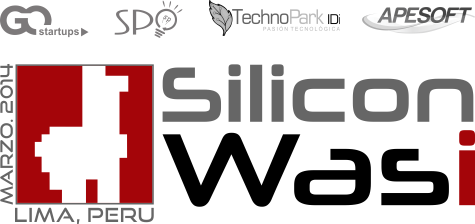
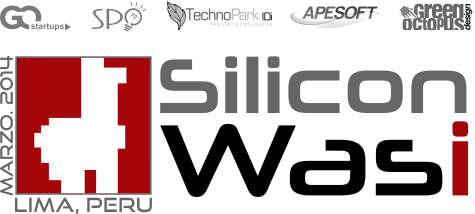
Added Serpar and Design Octopus - Added Microsoft and GDGLima brands

Changed region(s): [[0.0, 0.2523, 1.0, 1.0], [0.0, 0.0, 1.0, 0.1682], [0.0884, 0.757, 0.1474, 0.8692]]

diff --git a/index.html b/index.html
@@ -93,7 +93,7 @@
           <!-- argentina -->
           <div class="col-lg-2 col-md-2 col-sm-4 ">
             <div class="col-md-6 col-xs-6 ">
-              <a href="#"><img class="img-responsive img-home-portfolio" src="images/finalist/argentina/argentina.png"></a>
+              <img class="img-responsive img-home-portfolio" src="images/finalist/argentina/argentina.png">
             </div>
             <div class="col-md-6 col-xs-6 ">
               <a href="http://wolox.com.ar" target="_blank"><img class="img-responsive img-home-portfolio" src="images/finalist/argentina/1a.png"></a>
@@ -115,7 +115,7 @@
           <!-- brazil -->
           <div class="col-lg-2 col-md-2 col-sm-4 ">
             <div class="col-md-6 col-xs-6 ">
-              <a href="#"><img class="img-responsive img-home-portfolio" src="images/finalist/brazil/brazil.png"></a>
+              <img class="img-responsive img-home-portfolio" src="images/finalist/brazil/brazil.png">
             </div>
             <div class="col-md-6 col-xs-6 ">
               <a href="http://heapup.com.br" target="_blank"><img class="img-responsive img-home-portfolio" src="images/finalist/brazil/1a.png"></a>
@@ -137,7 +137,7 @@
           <!-- colombia -->
           <div class="col-lg-2 col-md-2 col-sm-4 ">
             <div class="col-md-6 col-xs-6 ">
-              <a href="#"><img class="img-responsive img-home-portfolio" src="images/finalist/colombia/colombia.png"></a>
+              <img class="img-responsive img-home-portfolio" src="images/finalist/colombia/colombia.png">
             </div>
             <div class="col-md-6 col-xs-6 ">
               <a href="http://mavish.com" target="_blank"><img class="img-responsive img-home-portfolio" src="images/finalist/colombia/1a.png"></a>
@@ -159,7 +159,7 @@
           <!-- mexico -->
           <div class="col-lg-2 col-md-2 col-sm-4 ">
             <div class="col-md-6 col-xs-6 ">
-              <a href="#"><img class="img-responsive img-home-portfolio" src="images/finalist/mexico/mexico.png"></a>
+              <img class="img-responsive img-home-portfolio" src="images/finalist/mexico/mexico.png">
             </div>
             <div class="col-md-6 col-xs-6 ">
               <a href="http://retweeti.com" target="_blank"><img class="img-responsive img-home-portfolio" src="images/finalist/mexico/1a.png"></a>
@@ -181,7 +181,7 @@
           <!-- PERU -->
           <div class="col-lg-2 col-md-2 col-sm-4 ">
             <div class="col-md-6 col-xs-6 ">
-              <a href="#"><img class="img-responsive img-home-portfolio" src="images/finalist/peru/peru.png"></a>
+              <img class="img-responsive img-home-portfolio" src="images/finalist/peru/peru.png">
             </div>
             <div class="col-md-6 col-xs-6 ">
               <a href="http://pasaeldato.com.pe" target="_blank"><img class="img-responsive img-home-portfolio" src="images/finalist/peru/1a.png"></a>
@@ -226,7 +226,7 @@
           </div>
           <div class="col-lg-6 col-md-6 col-sm-6 ">
             <!--<img class="img-responsive" src="http://placehold.it/700x450/ffffff/cccccc">-->
-            <iframe width="100%" height="350px" src="//www.youtube.com/embed/QWKqawgJOPg" frameborder="0" allowfullscreen></iframe>
+            <iframe width="100%" height="350px" src="http://www.youtube.com/embed/QWKqawgJOPg" frameborder="0" allowfullscreen></iframe>
           </div>
         </div><!-- /.row -->
 
@@ -248,23 +248,25 @@
             <span>Startup school</span>
             <br></br>
             <p>
-              Cuando llegues a Silicon Wasi no sólo vas a compartir con 5 culturas tecnológicas diferentes, vas a tener la oportunidad de aprender de ellas, ¿te animas?
-              Es muy sencillo, el Startup School , está diseñado para que tú y tu equipo, puedan compartir cómo fue el inicio de su startup, las buenas prácticas de diseño y desarrollo de su servicio o producto que permitieron su crecimiento y aceleración, el manejo de la propiedad intelectual y la monetización temprana.
+              Es un espacio libre donde alumnos, emprendedores, y público en general podrán aprender de las EXPERIENCIAS de los expositores. Todos los ponentes son personas que HICIERON y CREARON, no sólo personas que tuvieron bonitas ideas en papel.
             </p>
             <ul>
-              <li>4 días, cada uno dedicado a una temática diferente (Iniciar, Crecer, Proteger, Monetizar)
-              5 Salones de clases super cool (clubes y billares de la zona turística de Lima como salones)
-              15 Clases por cada día | 60 clases en total</li>
+              <li>4 días con 5 salones con diferente temática (Nacimiento, Crecimiento, Protección, Sostenibilidad, Espacio Libre) 15 Clases por cada día | 60 clases en total</li>
               <li>Las clases estarán abiertas al público, y vendrán estudiantes, docentes y personas interesadas en aprender de Startups convocadas por la organización de Silicon Wasi.
               </li>
-              <li>Marzo. 25 - 28 | 8:00 am - 1:00 pm</li>
-              
+              <li>Marzo. 25 - 28 | 8:30 am - 1:30 pm</li>              
             </ul>
           </div>
-        </div><!-- /.row -->
+        </div>
 
+        <div class="row">
+          <div class="row section text-center">
+            <h4>Con el apoyo de:</h4>
+               <a href="http://www.gdglima.org" target="_blank"><img src="images/apoyo/school/gdglima.png"></a>
+               <a href="http://www.microsoft.com" target="_blank"><img src="images/apoyo/school/microsoft.png"></a> 
+           </div>        
+        </div> 
       </div><!-- /.container -->
-
     </div><!-- /.section -->
     <!-- END STARTUP SCHOOL  -->
 
@@ -278,17 +280,20 @@
             <span>Startup wars</span>
             <br></br>
             <p>
-              Startup Village, reúne en un sólo lugar a los Startups, Emprendedores, Inversionistas, Hackers y Tecnologistas que vienen de los 5 países participantes, será un espacio único para vivir, compartir, trabajar y jugar juntos durante toda una semana.
-
+              Startup Wars, es una serie de batallas tecnológicas, en diferentes universidades, en las que se lidiarán las startups de los 5 países; a la final sólo llegará un guerrero por cada país. Esta última batalla determinará a la startup que ostentará el título de INCA STARTUP.
             </p>
-            <ul>
-              <li>Fecha de inicio y horarios</li>
-              <li>Marzo. 25 - 29 | 10:00 am - 5:00 pm</li>
+            <h4>Universidades</h4>
+            <ul>              
+              <li>U. de Lima - Marzo. 25 | 6:00 am - 10:00 pm</li>
+              <li>USIL - Marzo. 26 | 6:00 am - 10:00 pm</li>
+              <li>PUCP - Marzo. 27 | 6:00 am - 10:00 pm</li>
+              <li>UPC - Marzo. 29 | 6:00 am - 10:00 pm</li>
+
             </ul>
           </div>
           <div class="col-lg-6 col-md-6 col-sm-6 ">
             <!--<img class="img-responsive" src="http://placehold.it/700x450/ffffff/cccccc">-->
-            <iframe width="100%" height="350px" src="//www.youtube.com/embed/TvSkBf_l45Q" frameborder="0" allowfullscreen></iframe>
+            <iframe width="100%" height="350px" src="http://www.youtube.com/embed/TvSkBf_l45Q" frameborder="0" allowfullscreen></iframe>
           </div>
         </div><!-- /.row -->
 
@@ -328,6 +333,7 @@
 
         <div class="col-lg-12 text-center message-top">
           <a href="https://www.munlima.gob.pe/" target="_blank"><img src="images/auspiciadores/muni_lima.png"></a>
+          <a href="http://www.serpar.gob.pe/" target="_blank"><img src="images/auspiciadores/serpar.png"></a>
           <a href="http://www.congreso.gob.pe/" target="_blank"><img src="images/auspiciadores/congreso_brand.png"></a>
           <a href="http://www.upc.edu.pe/" target="_blank"><img src="images/auspiciadores/upc_brand.png"></a>
           <a href="http://fab.pe/" target="_blank"><img src="images/auspiciadores/fablab_brand.png"></a>
